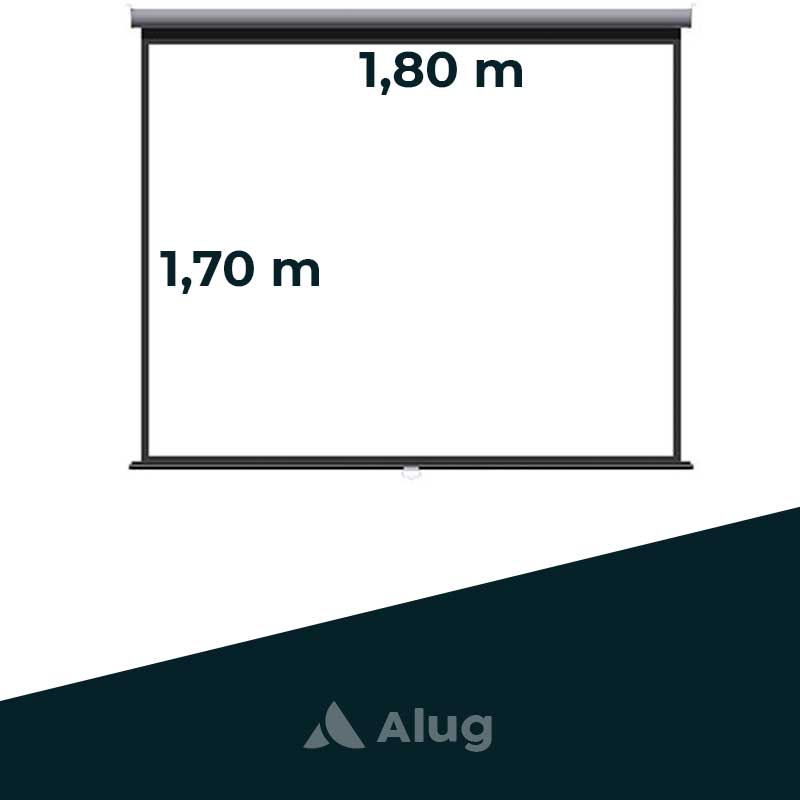
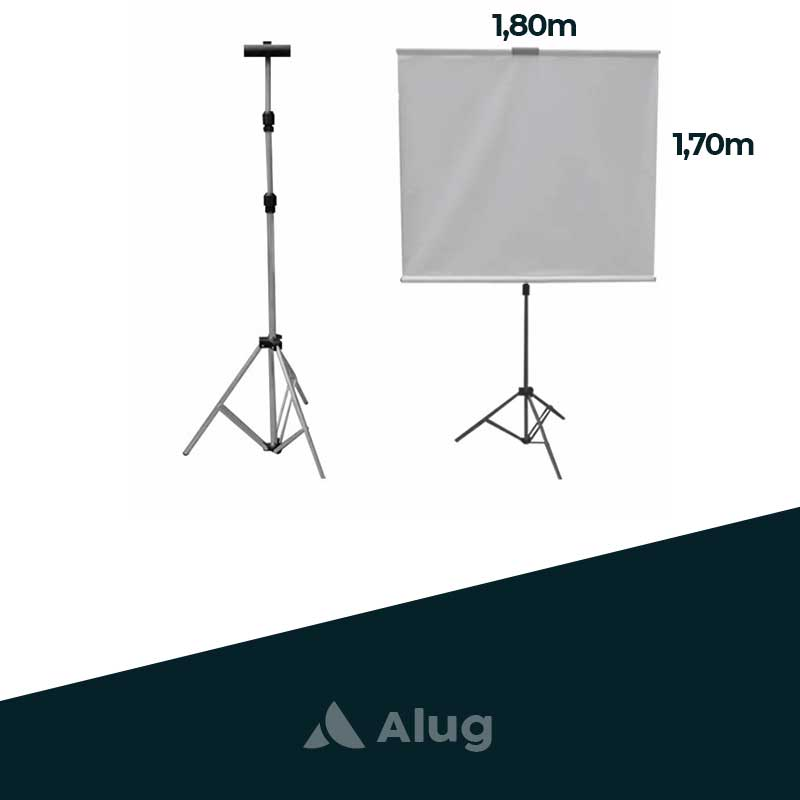
area do assinante

Changed region(s): [[0.1562, 0.0, 0.9375, 0.5938]]

diff --git a/teste.html b/teste.html
@@ -28,37 +28,66 @@
     <link rel="stylesheet" href="assets/css/flexslider.css" type="text/css" media="screen" />
 
 
-
+    <script src="http://ajax.googleapis.com/ajax/libs/jquery/1/jquery.min.js"></script>
+    
 
 	</head>
 	<body>      
-      
-     <div id="container" class="cf">   
-       <div id="main" role="main">
-          <section class="slider">
-            <div class="flexslider">
-              <ul class="slides">
-                <li data-thumb="assets/images/produtos/rocadeira.jpg">
-                  <img src="assets/images/produtos/rocadeira.jpg" />
-                </li>
-                <li data-thumb="assets/images/produtos/rocadeira.jpg">
-                  <img src="assets/images/produtos/rocadeira.jpg" />
-                </li>
-                <li data-thumb="assets/images/produtos/rocadeira.jpg">
-                  <img src="assets/images/produtos/rocadeira.jpg" />
-                </li>
-                <li data-thumb="assets/images/produtos/rocadeira.jpg">
-                  <img src="assets/images/produtos/rocadeira.jpg" />
-                </li>
-              </ul>
-            </div>
-          </section>     
-      </div>
-    </div>
-    <script src="assets/js/bootstrap.min.js"></script>
 
-    <script src="http://ajax.googleapis.com/ajax/libs/jquery/1/jquery.min.js"></script>
-    
+
+<script src="//maxcdn.bootstrapcdn.com/bootstrap/4.0.0/js/bootstrap.min.js"></script>
+
+<!------ Include the above in your HEAD tag ---------->
+     
+   <div class="container">
+        <div class="row align-items-center justify-content-center">
+          <div class="col-md-5 relative align-self-center" style='top:30px;'>
+
+            <ul class="nav nav-tabs" id="myTab" role="tablist" style="border-bottom:none">
+              <li class="nav-item">
+                <a class="nav-link active" id="assinante-tab" data-toggle="tab" href="#assinante" role="tab" aria-selectedcontrols="assinante" aria-selected="true">Assinante</a>
+              </li>
+              <li class="nav-item">
+                <a class="nav-link" id="influenciador-tab" data-toggle="tab" href="#influenciador" role="tab" aria-selectedontrols="profile" aria-selected="false">Influenciador</a>
+              </li>            
+            </ul>
+
+            <div class="tab-content" id="myTabContent">
+
+              <div class="tab-pane fade show active" id="assinante" role="tabpanel" aria-labelledby="assinante-tab">
+                <form action="efetuar-login.php" method="POST" enctype="multipart/form-data" class="bg-white pb_form_v1">
+                  <h2 class="mb-4 mt-0 text-center">Área do assinante</h2>
+                  <div class="md-form pb-3">                
+                    <input type="email" placeholder="Informe seu email" required class="form-control pb_height-50" name="email" id="email" />
+                    <br/>                
+                    <input type="password" placeholder="Informe seu CPF" required class="form-control pb_height-50" name="cpf" id="cpf" />
+                    <br/>
+                  </div>            
+                  <div class="form-group">
+                    <input type="submit" class="btn btn-primary btn-lg btn-block pb_btn-pill  btn-shadow-blue" value="Entrar">
+                  </div>              
+                </form>
+              </div>
+
+              <div class="tab-pane fade" id="influenciador" role="tabpanel" aria-labelledby="influenciador-tab">
+                <form action="efetuar-login.php" method="POST" enctype="multipart/form-data" class="bg-white pb_form_v1">
+                  <h2 class="mb-4 mt-0 text-center">Área do Influenciador</h2>
+                  <div class="md-form pb-3">                                              
+                    <input type="password" placeholder="Informe seu CPF" required class="form-control pb_height-50" name="cpf" id="cpf" />
+                    <br/>
+                  </div>            
+                  <div class="form-group">
+                    <input type="submit" class="btn btn-primary btn-lg btn-block pb_btn-pill  btn-shadow-blue" value="Entrar">
+                  </div>              
+                </form>
+              </div>
+
+            </div>
+
+          </div>
+        </div>
+      </div>
+
 
     <script src="assets/js/jquery.flexslider.js"></script>
     <script type="text/javascript">     

diff --git a/assets/js/countries.js b/assets/js/countries.js
@@ -2,7 +2,7 @@
     "001": "Adaptador HDMI",
     "002": "Apresentador de Slides Logitech 4000",
     "003": "Aquecedor à Óleo Mondial",
-    "004": "Babá Eletrônica Motorola MBP-482",
+    "004": "Baba\u0301 Eletrônica Motorola MBP-482",
     "005": "Caixa de Brocas Bosh",
     "006": "Caixa de Ferramentas completa: 64 peças",
     "007": "Caixa de Som Modial CM11",
@@ -10,6 +10,7 @@
     "009": "Google Chromecast 2",
     "010": "Controle PS4",
     "011": "Controle XBOX One",
+    "013": "Drone DJI Phantom 3 SE",
     "014": "Estabilizador Steadycam",
     "015": "Furadeira Bosh GSB 650W",
     "016": "GoPro Hero 7 + Acessórios",
@@ -20,7 +21,7 @@
     "021": "Kindle Paperwhite 8˚ Geração",
     "022": "Kit Jardim - (Enchada, pá e luvas)",
     "023": "Lavadora de alta pressão WAP Ágil 1800",
-    "024": "Máquina Fotográfica Canon EOS Rebel T6",
+    "024": "M\xe1quina Fotográfica Canon EOS Rebel T6",
     "025": "Microfone sem fio VWS-20",
     "026": "Microfone de lapela AMW BV58",
     "027": "Parafusadeira Bosh GSR1000",
@@ -29,7 +30,7 @@
     "030": "Tela de encosto de veículo 9' Motor One",
     "031": "Tripé para máquina fotográfica",
     "032": "Videogame Xbox One + 1 controle + 50 jogos",
-    "033": "Videokê VSK + 300 músicas",
+    "033": "Videoke VSK + 300 músicas",
     "034": "HD Externo Samsung 1TB",
     "035": "Suporte de Bike para Carro COM Engate (Transbike)",
     "036": "Mountain Bike Oggi 2018 7.0 24v - 17",
@@ -51,7 +52,8 @@
     "051": "Fritadeira Elétrica AirFryer Philips Walita",
     "052": "Aspirador de Pó Electrolux Easybox",
     "053": "Roçadeira de Grama Husqvarna 323R",
-    "054": "Extratora de Carpete, Sofá e Estofados WAP Home Cleaner",
+    "054": "Extratora de Carpete, Sof\a\u0301 e Estofados WAP Home Cleaner",
     "055": "Fogareiro à Gás + Panela",
-    "056": "Cabo de Transferência de Energia"
+    "056": "Cabo de Transferência de Energia",
+    "057": "Tela de Projeção 1,80m x 1,70m + Tripé"
 }

diff --git a/assets/js/main.js b/assets/js/main.js
@@ -31,6 +31,7 @@ $(document).ready(function($) {
 			if (st < 150) {
 				if ( navbar.hasClass('scrolled') ) {
 					navbar.removeClass('scrolled sleep');
+					img_alug.attr('src', 'assets/images/logotipo.png');
 				}
 			} 
 			if ( st > 350 ) {

diff --git a/assets/css/alug.css b/assets/css/alug.css
@@ -71,6 +71,12 @@
   text-align: justify;
 }
 
+.span_alug{
+  font-size: 16pt;
+  font-weight: 700;
+  color:#00343d;
+}
+
 .blog .carousel-indicators {
   left: 0;
   top: auto;

diff --git a/index.php b/index.php
@@ -44,7 +44,7 @@
 
     <nav class="navbar navbar-expand-lg navbar-dark pb_navbar pb_scrolled-light" id="pb-navbar">
       <div class="container">
-        <a class="navbar-brand" href="index.html"><img class="img_alug" src="assets/images/logotipo.png" style="width:120px"></a>
+        <a class="navbar-brand" href="index.php"><img class="img_alug" src="assets/images/logotipo.png" style="width:120px"></a>
         <button class="navbar-toggler ml-auto" type="button" data-toggle="collapse" data-target="#probootstrap-navbar" aria-controls="probootstrap-navbar" aria-expanded="false" aria-label="Toggle navigation">
           <span><i class="ion-navicon"></i></span>
         </button>
@@ -52,10 +52,11 @@
           <ul class="navbar-nav ml-auto">
             <li class="nav-item"><a class="nav-link" href="#section-home">Início</a></li>
             <li class="nav-item"><a class="nav-link" href="#section-features">Conheça mais</a></li>
-            <li class="nav-item"><a class="nav-link" href="https://medium.com/alug-escreve" target="_blank">Blog</a></li>
             <li class="nav-item"><a class="nav-link" href="#section-reviews">Produtos</a></li>
-            <!--<li class="nav-item"><a class="nav-link" href="#section-planos">Planos</a></li> -->
+            <li class="nav-item"><a class="nav-link" href="#section-planos">Planos</a></li>
+            <li class="nav-item"><a class="nav-link" href="area-assinante/index.php">Área do assinante</a></li>      
             <li class="nav-item"><a class="nav-link" href="#section-pricing">Contato</a></li>         
+            <li class="nav-item"><a class="nav-link" href="https://medium.com/alug-escreve" target="_blank">Blog</a></li>
           </ul>
         </div>
       </div>
@@ -251,28 +252,28 @@
             <div class="modal-body">
               <div class="row">
                 <div class="col-sm-6">
-                <div id="container" class="cf">   
-                  <div id="main" role="main">
-                    <section class="slider">
-                      <div class="flexslider">
-                        <ul class="slides">
-                          <li data-thumb-img-class="img_prod1">
-                            <img class="img_prod1" />
-                          </li>
-                          <li data-thumb-img-class="img_prod2">
-                            <img class="img_prod2" />
-                          </li>
-                          <li data-thumb-img-class="img_prod3">
-                            <img class="img_prod3" />
-                          </li>
-                          <li data-thumb-img-class="img_prod4">
-                            <img class="img_prod4" />
-                          </li>
-                        </ul>
-                      </div>
-                    </section> 
-                  </div>
-                </div>
+                  <div id="container" class="cf">   
+                    <div id="main" role="main">
+                      <section class="slider">
+                        <div class="flexslider">
+                          <ul class="slides">
+                            <li data-thumb-img-class="img_prod1">
+                              <img class="img_prod1" />
+                            </li>
+                            <li data-thumb-img-class="img_prod2">
+                              <img class="img_prod2" />
+                            </li>
+                            <li data-thumb-img-class="img_prod3">
+                              <img class="img_prod3" />
+                            </li>
+                            <li data-thumb-img-class="img_prod4">
+                              <img class="img_prod4" />
+                            </li>
+                          </ul>
+                        </div>
+                      </section> 
+                    </div>
+                 </div>
                 </div>
                 <div class="col-md-6">
                   <p id="conteudo_prod">
@@ -350,22 +351,24 @@
                             <li data-target="#blogCarousel" data-slide-to="4">
                             </li>
                              <li data-target="#blogCarousel" data-slide-to="5">
-                            </li>                            
+                            </li>   
+                            <li data-target="#blogCarousel" data-slide-to="6">
+                            </li>                          
                         </ol>
                         <!-- Carousel items -->
                         <div class="carousel-inner">
                             <div class="carousel-item active">
                                 <div class="row">
                                     <div class="col-md-3" style="margin-bottom:10px;">
-                                        <a href="#" data-toggle="modal" data-target="#modal_prod" data-nome="XBox One" data-img1="videogame1.jpg" data-img2="videogame2.jpg" data-img3="videogame3.jpg" data-img4="videogame4.jpg" data-itens="console xbox one 500GB, 1 controle sem fio, fonte e cabo de alimentação, cabo HDMI, 53 jogos."  data-conteudo="Esse dispensa comentário né? Além do console da microsoft, você já leva um controle e mais de 50 jogos, entre eles: FIFA, Mortal Kombat, UFC, Forza." data-preco="45.90">
+                                        <a href="#" data-toggle="modal" data-target="#modal_prod" data-nome="Drone DJI Phantom 3 SE" data-img1="drone1.jpg" data-img2="drone2.jpg" data-img3="drone3.jpg" data-img4="drone4.jpg" data-itens="Drone DJI Phantom 3 SE, controle remoto, 1 bateria, carregadores e acessórios." data-conteudo="Agora você pode ter um drone sem precisar comprar um. Aluga, e paga somente pelo período que usar. O Phantom 3 SE tira fotos em 12mp, Filmes em 4k a 30fps, alcance de até 4km e autonomia de até 25 min." data-preco="129.90">
+                                             <img src="assets/images/produtos/drone1.jpg" alt="Image" style="max-width:100%;">
+                                        </a>
+                                    </div>   
+                                    <div class="col-md-3" style="margin-bottom:10px;">
+                                        <a href="#" data-toggle="modal" data-target="#modal_prod" data-nome="XBox One" data-img1="videogame1.jpg" data-img2="videogame2.jpg" data-img3="videogame3.jpg" data-img4="videogame4.jpg" data-itens="console xbox one 500GB, 1 controle sem fio, fonte e cabo de alimentação, cabo HDMI, 53 jogos e fone de ouvido."  data-conteudo="Esse dispensa comentário né? Além do console da microsoft, você já leva um controle e mais de 50 jogos, entre eles: FIFA, Mortal Kombat, UFC, Forza." data-preco="45.90">
                                             <img src="assets/images/produtos/videogame1.jpg" alt="Image" style="max-width:100%;">
                                         </a>
-                                    </div>
-                                    <div class="col-md-3" style="margin-bottom:10px;">
-                                        <a href="#" data-toggle="modal" data-target="#modal_prod" data-nome="Videokê VSK" data-img1="videoke1.jpg" data-img2="videoke2.jpg" data-img3="videoke3.jpg" data-img4="videoke4.jpg" data-itens="aparelho videokê com 340 músicas, fonte de alimentação, cabo p2/RCA, cabo HDMI, catálogo de músicas." data-conteudo="Tem um talento escondido dentro de você e precisa com urgência exibi-lo para seus amigos? Que tal um videokê com mais de 300 músicas? Conecte ele na sua TV e a festa é certa" data-preco="34.90">
-                                             <img src="assets/images/produtos/videoke1.jpg" alt="Image" style="max-width:100%;">
-                                        </a>
-                                    </div>
+                                    </div>                                   
                                     <div class="col-md-3" style="margin-bottom:10px;">
                                         <a href="#" data-toggle="modal" data-target="#modal_prod" data-nome="Projetor Multimídia Epson Powerlite S10" data-img1="projetor1.jpg" data-img2="projetor2.jpg" data-img3="projetor3.jpg" data-img4="projetor4.jpg" data-itens="projetor epson s10, bolsa para transporte, cabo de energia, cabo vga, adaptador hdmi, tela de projeção 1,80 x 1,70 e suporte para tela de projeção."  data-conteudo="Não tem como pensar em uma apresentação sem um desses né? Já viu o preço de um novo? Pois bem. Agora você pode pagar um precinho gente boa que corresponde só pelo tempo que usou." data-preco="47.90">
                                              <img src="assets/images/produtos/projetor1.jpg" alt="Image" style="max-width:100%;">
@@ -393,11 +396,11 @@
                                              <img src="assets/images/produtos/baba_eletronica1.jpg" alt="Image" style="max-width:100%;"> 
                                         </a>
                                     </div>
-                                    <div class="col-md-3" style="margin-bottom:10px;">
-                                        <a href="#" data-toggle="modal" data-target="#modal_prod" data-nome="Tela de Encosto 9' Motor One" data-img1="tela_encosto1.jpg" data-img2="tela_encosto2.jpg" data-img3="tela_encosto3.jpg" data-img4="tela_encosto4.jpg" data-itens="1 tela de encosto 9' com leitor de DVD/CD/USB e SD, acessórios e plugues de instalação, fonte para tomada veicular, controle para videogame, controle remoto,  " data-conteudo="Vai levar a criançada em uma viagem longa? Já sabe que elas vão se entediar né? Que tal levar uma tela encosto de 9'?" data-preco="25.90">
-                                             <img src="assets/images/produtos/tela_encosto1.jpg" alt="Image" style="max-width:100%;">
+                                     <div class="col-md-3" style="margin-bottom:10px;">
+                                        <a href="#" data-toggle="modal" data-target="#modal_prod" data-nome="Videokê VSK" data-img1="videoke1.jpg" data-img2="videoke2.jpg" data-img3="videoke3.jpg" data-img4="videoke4.jpg" data-itens="aparelho videokê com 340 músicas, 1 microfone, fonte de alimentação, cabo p2/RCA, cabo HDMI, catálogo de músicas." data-conteudo="Tem um talento escondido dentro de você e precisa com urgência exibi-lo para seus amigos? Que tal um videokê com mais de 300 músicas? Conecte ele na sua TV e a festa é certa" data-preco="34.90">
+                                             <img src="assets/images/produtos/videoke1.jpg" alt="Image" style="max-width:100%;">
                                         </a>
-                                    </div>
+                                    </div>                                    
                                     <div class="col-md-3" style="margin-bottom:10px;">
                                         <a href="#" data-toggle="modal" data-target="#modal_prod" data-nome="Caixa de som Mondial CM11 400W RMS" data-img1="caixa_som1.jpg" data-img2="caixa_som2.jpg" data-img3="caixa_som3.jpg" data-img4="caixa_som4.jpg" data-itens="caixa amplificadora mondial CM-11, cabo de energia, cabo para bateria externa, cabo RCA/P2, controle remoto, manual de instruções." data-conteudo="Quer dar um volume na sua festinha? Que tal essa caixa de som com conexão bluetooth, conexão para microfones, conexão usb, entre outras? Ainda por cima, são 400W RMS, já pensou?" data-preco="23.90">
                                             <img src="assets/images/produtos/caixa_som1.jpg" alt="Image" style="max-width:100%;">
@@ -503,11 +506,27 @@
                                         <a href="#" data-toggle="modal" data-target="#modal_prod" data-nome="HD Externo Samsung 1TB" data-img1="hd1.jpg" data-img2="hd2.jpg" data-img3="hd3.jpg" data-img4="hd4.jpg" data-itens="hd Samsung 1TB, cabo usb." data-conteudo="Vai formatar o PC e está sem espaço para o backup? Leva o HD, faz o backup e paga só pelo tempo que usou, quer vantagem maior?" data-preco="19.90">
                                              <img src="assets/images/produtos/hd1.jpg" alt="Image" style="max-width:100%;">
                                         </a>
+                                    </div>  
+                                    <div class="col-md-3" style="margin-bottom:10px;">
+                                        <a href="#" data-toggle="modal" data-target="#modal_prod" data-nome="Tela de Projeção + Tripé" data-img1="tela_projecao1.jpg" data-img2="tela_projecao2.jpg" data-img3="tela_projecao3.jpg" data-img4="tela_projecao4.jpg" data-itens="Tripé 3m, Tela de 1,80m x 1,70m, Bolsa para transporte do tripé." data-conteudo="Está precisando projetar mas não tem um lugar preparado? Agora não precisa mais se preocupar com isso. Com essa tela de projeção você monta onde quiser." data-preco="14.90">
+                                             <img src="assets/images/produtos/tela_projecao1.jpg" alt="Image" style="max-width:100%;">
+                                        </a>
                                     </div>                              
                                 </div>
                                 <!--.row-->
                             </div>
-                            <!--.item-->            
+                            <!--.item-->  
+                            <div class="carousel-item">
+                                <div class="row">
+                                    <div class="col-md-3" style="margin-bottom:10px;">
+                                        <a href="#" data-toggle="modal" data-target="#modal_prod" data-nome="Tela de Encosto 9' Motor One" data-img1="tela_encosto1.jpg" data-img2="tela_encosto2.jpg" data-img3="tela_encosto3.jpg" data-img4="tela_encosto4.jpg" data-itens="1 tela de encosto 9' com leitor de DVD/CD/USB e SD, acessórios e plugues de instalação, fonte para tomada veicular, controle para videogame, controle remoto,  " data-conteudo="Vai levar a criançada em uma viagem longa? Já sabe que elas vão se entediar né? Que tal levar uma tela encosto de 9'?" data-preco="25.90">
+                                             <img src="assets/images/produtos/tela_encosto1.jpg" alt="Image" style="max-width:100%;">
+                                        </a>
+                                    </div>                                                                     
+                                </div>
+                                <!--.row-->
+                            </div>
+                            <!--.item-->           
 
                         </div>
                         <!--.carousel-inner-->
@@ -816,7 +835,7 @@
     </section>
     <!-- END section -->
 
-    <!--
+    
     <section class="pb_section bg-light pb_slant-white pb_pb-100" id="section-planos">
       <div class="container">
         <div class="row justify-content-center mb-5">
@@ -853,9 +872,9 @@
           </div>
         </div>
       </div>
-    </section> -->
-    
-    <!-- ENDs ection -->
+    </section> 
+
+    <!-- END section -->
 
     <section class="pb_section bg-light pb_slant-white" id="section-pricing">      
         
